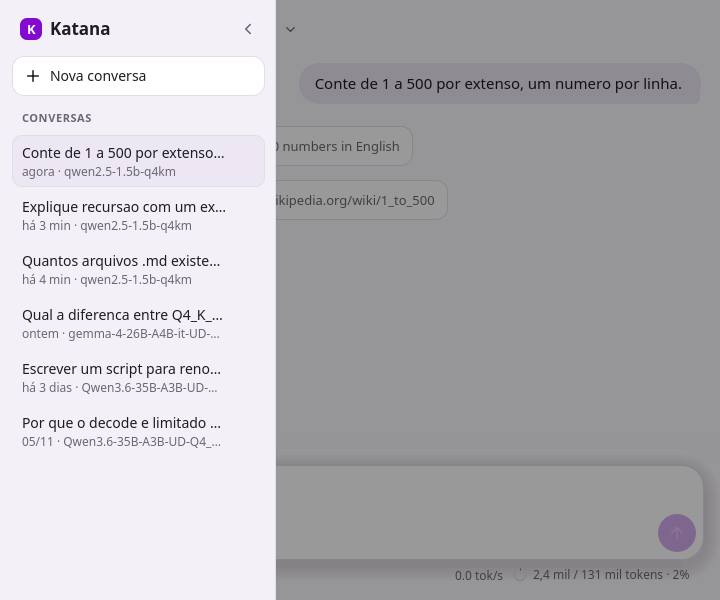
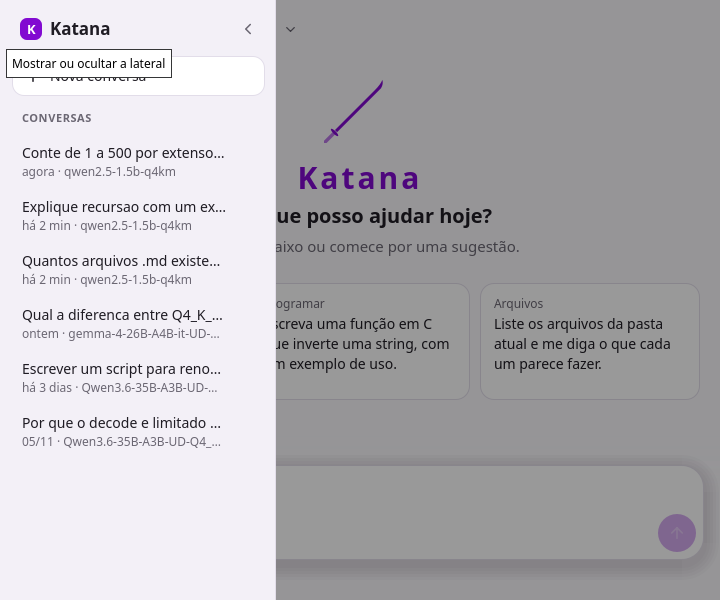
katana-desktop: entrada com katana fina em vetor no lugar do samurai de pixel art

diff --git a/desktop-qt/qml/MessageView.qml b/desktop-qt/qml/MessageView.qml
@@ -211,21 +211,47 @@ Item {
             id: col
             width: parent.width
             spacing: 0
-            // samurai em pixel art (64x64 logicos), escala inteira e sem suavizacao
-            Image {
+            // emblema: katana fina em diagonal, tracos vetoriais na cor de destaque
+            Canvas {
                 id: samurai
                 objectName: "samurai"
                 anchors.horizontalCenter: parent.horizontalCenter
-                readonly property real livre: mv.height - mv.bottomSpace - 230
-                readonly property int escala: livre >= 256 ? 4 : livre >= 192 ? 3 : livre >= 128 ? 2 : 1
-                source: "qrc:/icons/samurai.png"
-                sourceSize: Qt.size(64, 64)
-                width: 64 * escala
-                height: 64 * escala
-                smooth: false
-                mipmap: false
+                width: 72
+                height: 72
+                renderTarget: Canvas.Image
+                property color cor: Theme.ac
+                onCorChanged: requestPaint()
                 Accessible.role: Accessible.Graphic
-                Accessible.name: "Samurai com uma katana"
+                Accessible.name: "Katana"
+                onPaint: {
+                    var c = getContext("2d")
+                    c.reset()
+                    c.translate(width / 2, height / 2)
+                    c.rotate(-Math.PI / 4)
+                    c.fillStyle = cor
+                    c.strokeStyle = cor
+                    // lamina: ponta fina, lombo reto, leve curva no fio
+                    c.beginPath()
+                    c.moveTo(-34, 1.6)
+                    c.lineTo(-34, -1.4)
+                    c.lineTo(22, -1.4)
+                    c.quadraticCurveTo(31, -1.4, 35, -3.4)
+                    c.quadraticCurveTo(33, 0.4, 28, 1.6)
+                    c.closePath()
+                    c.fill()
+                    // guarda (tsuba)
+                    c.beginPath()
+                    c.ellipse(-37.5, -5, 3, 10)
+                    c.fill()
+                    // empunhadura com trancado discreto
+                    c.lineWidth = 3.4
+                    c.lineCap = "round"
+                    c.globalAlpha = 0.55
+                    c.beginPath()
+                    c.moveTo(-60, 0.1)
+                    c.lineTo(-38, 0.1)
+                    c.stroke()
+                }
             }
             Item { width: 1; height: 14 }
             Text {

diff --git a/desktop-qt/src/selftest.cpp b/desktop-qt/src/selftest.cpp
@@ -205,9 +205,7 @@ int runSelfTest(Backend &be, QQuickWindow *win, const QString &capDir, const QSt
         QQuickItem *em = c.item("emptyState");
         check(em && em->isVisible() && be.messages()->count() == 0, "boas-vindas visivel com a conversa vazia");
         QQuickItem *sm = c.item("samurai");
-        check(sm && sm->isVisible() && sm->width() >= 64 && !sm->property("smooth").toBool()
-                  && int(sm->width()) % 64 == 0,
-              "samurai em pixel art (escala inteira, sem suavizacao)");
+        check(sm && sm->isVisible() && sm->width() <= 96, "emblema da katana pequeno e visivel");
         QQuickItem *tt = c.item("welcomeTitle");
         check(tt && tt->property("text").toString() == "Katana", "titulo 'Katana'");
         QQuickItem *gr = c.item("welcomeGreeting");
